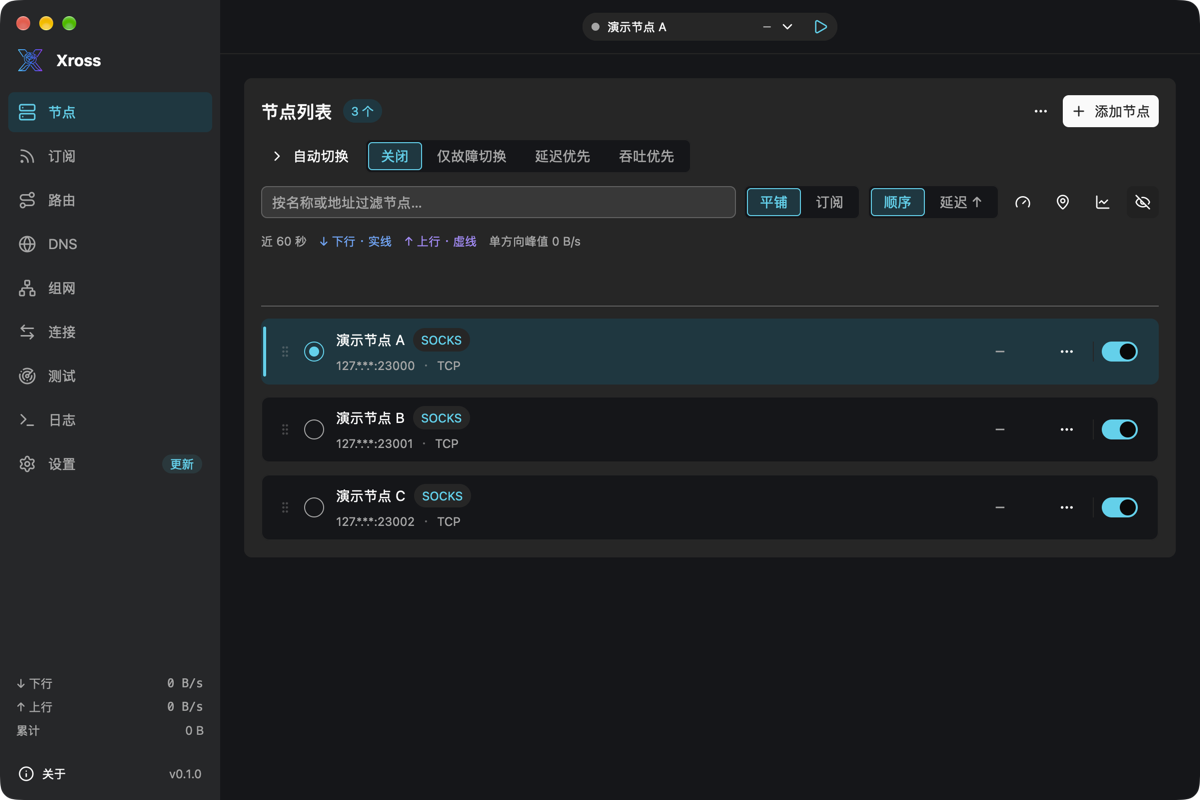
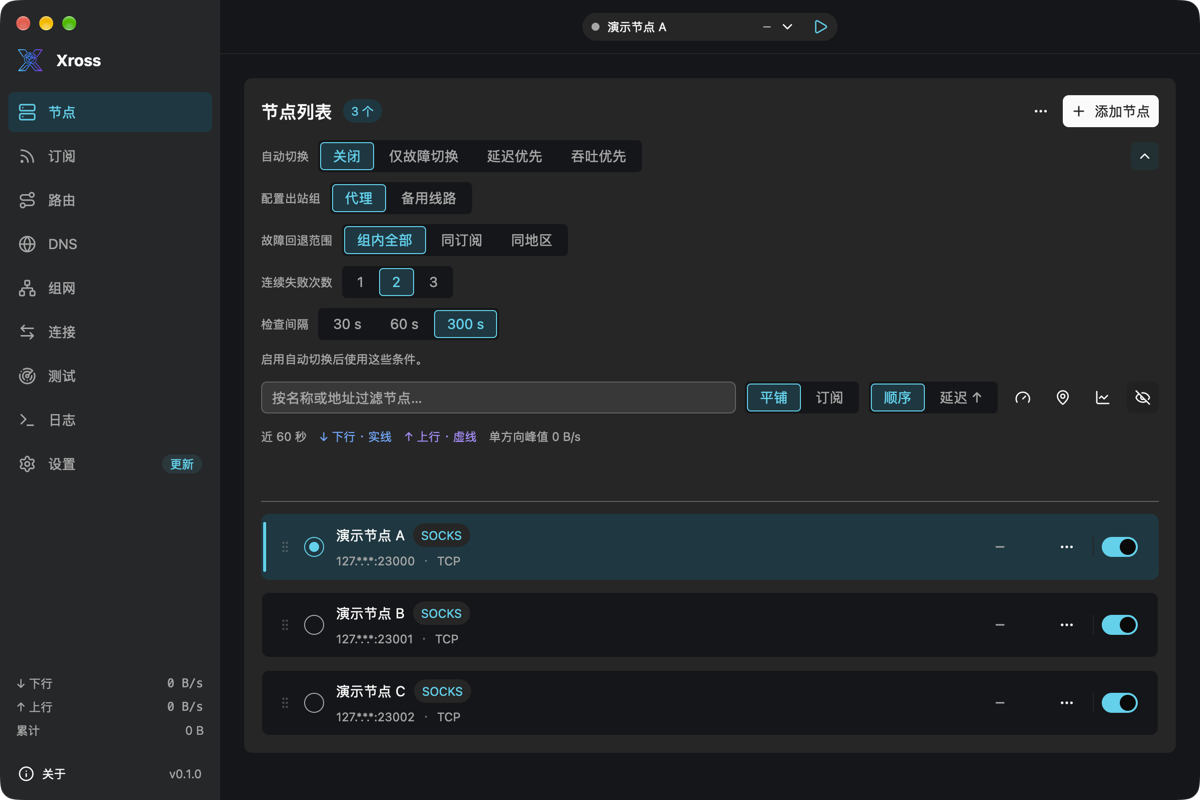
fix(nodes): move switch disclosure to row end and segment group choice

diff --git a/crates/xross-app/src/ui/menus.rs b/crates/xross-app/src/ui/menus.rs
@@ -13,7 +13,6 @@ pub(super) enum MenuTarget {
     RoutingFiles,
     NodeSelector,
     DefaultOutbound,
-    SwitchPolicyGroups,
     FrontProxy,
     Node(String),
     Nodes,
@@ -31,7 +30,6 @@ pub(super) enum Command {
     ExportRoute(ExportScope),
     SelectNode(String, String),
     SetDefaultOutbound(String),
-    EditSwitchGroup(String),
     SetFrontProxy(Option<String>),
     EditNode(String),
     TestNode(String),
@@ -213,31 +211,23 @@ impl AppView {
                     );
                 }
             }
-            MenuTarget::DefaultOutbound | MenuTarget::SwitchPolicyGroups => {
+            MenuTarget::DefaultOutbound => {
                 let model = &self.snapshot.model;
-                let routing = matches!(target, MenuTarget::DefaultOutbound);
-                let current = if routing {
-                    model.default_group_id()
-                } else {
-                    self.expanded_switch_group.clone()
-                };
+                let current = model.default_group_id();
                 for group in &model.groups {
-                    let (enabled, command) = if routing {
-                        let usable = group.members.iter().any(|id| {
-                            model
-                                .node(id)
-                                .is_some_and(|node| node.usable_with(self.snapshot.settings.core))
-                        });
-                        (
+                    let usable = group.members.iter().any(|id| {
+                        model
+                            .node(id)
+                            .is_some_and(|node| node.usable_with(self.snapshot.settings.core))
+                    });
+                    menu = menu.item(
+                        item(
+                            &view,
+                            self.outbound_group_label(group),
                             group.enabled && usable && !busy("core"),
                             Command::SetDefaultOutbound(group.id.clone()),
                         )
-                    } else {
-                        (true, Command::EditSwitchGroup(group.id.clone()))
-                    };
-                    menu = menu.item(
-                        item(&view, self.outbound_group_label(group), enabled, command)
-                            .checked(current.as_ref() == Some(&group.id)),
+                        .checked(current.as_ref() == Some(&group.id)),
                     );
                 }
             }
@@ -661,7 +651,6 @@ impl AppView {
             Command::CopyNode(_)
                 | Command::QrNode(_)
                 | Command::BatchNodes
-                | Command::EditSwitchGroup(_)
                 | Command::ClearLogs
                 | Command::ClearRecording
         ) && busy("core")
@@ -743,12 +732,6 @@ impl AppView {
                     self.service.toast(ToastLevel::Error, err.to_string());
                 } else {
                     self.expanded_switch_group = None;
-                }
-            }
-            Command::EditSwitchGroup(id) => {
-                if self.expanded_switch_group.is_some() && self.snapshot.model.group(&id).is_some()
-                {
-                    self.expanded_switch_group = Some(id);
                 }
             }
             Command::SetFrontProxy(id) => {

diff --git a/crates/xross-app/src/ui/nodes/switching.rs b/crates/xross-app/src/ui/nodes/switching.rs
@@ -42,15 +42,16 @@ impl AppView {
         } else {
             self.tr("展开高级设置", "Expand advanced settings")
         };
-        let heading = Button::new("switch-advanced")
+        let expand_button = Button::new("switch-advanced")
             .compact()
             .ghost()
-            .label(self.tr("自动切换", "Auto switch"))
             .icon(if expanded {
-                IconName::ChevronDown
+                IconName::ChevronUp
             } else {
-                IconName::ChevronRight
+                IconName::ChevronDown
             })
+            .size(px(crate::ui::theme::ICON_BUTTON_SIZE))
+            .flex_shrink_0()
             .accessibility_label(format!(
                 "{} · {disclosure}",
                 self.tr("自动切换", "Auto switch")
@@ -98,28 +99,39 @@ impl AppView {
         let controls = div().flex().flex_col().gap_2().child(
             div()
                 .flex()
-                .flex_wrap()
+                .w_full()
                 .items_center()
                 .gap_2()
-                .child(heading)
-                .child(modes),
+                .child(
+                    row(self.tr("自动切换", "Auto switch"))
+                        .flex_1()
+                        .min_w(px(0.))
+                        .child(modes),
+                )
+                .child(expand_button),
         );
         if !expanded {
             return controls;
         }
-        let controls = controls.when(self.snapshot.model.groups.len() > 1, |d| {
-            d.child(
-                row(self.tr("配置出站组", "Configure group")).child(
-                    Button::new("switch-policy-group")
-                        .compact()
-                        .label(self.outbound_group_label(group))
-                        .icon(IconName::ChevronDown)
-                        .dropdown_menu(menus::builder(
-                            cx.entity().downgrade(),
-                            MenuTarget::SwitchPolicyGroups,
-                        )),
-                ),
+        let groups = &self.snapshot.model.groups;
+        let controls = controls.when(groups.len() > 1, |d| {
+            let ids: Vec<_> = groups.iter().map(|g| g.id.clone()).collect();
+            let choices = ChoiceGroup::new(
+                "switch-policy-group",
+                groups
+                    .iter()
+                    .map(|g| self.outbound_group_label(g))
+                    .collect(),
+                groups.iter().position(|g| g.id == group.id),
             )
+            .on_change(cx.listener(move |this, index: &usize, _, cx| {
+                let id = &ids[*index];
+                if this.expanded_switch_group.is_some() && this.snapshot.model.group(id).is_some() {
+                    this.expanded_switch_group = Some(id.clone());
+                    cx.notify();
+                }
+            }));
+            d.child(row(self.tr("配置出站组", "Configure group")).child(choices))
         });
         if mode == SwitchMode::GroupDefault {
             return controls.child(note(self.tr(

diff --git a/README.md b/README.md
@@ -28,7 +28,7 @@ Xross 是跨平台的 Xray / sing-box 桌面客户端，同时内置异地组网
 | 延迟优先 | 比较通过各节点测得的 HTTP 延迟，改善达到组内设定的容差（默认 50 ms）时切换。 |
 | 吞吐优先 | 实测下载速度提升至少 10% 时切换。每轮每个节点最多下载 1 MiB，计入订阅流量。 |
 
-点击「自动切换」标题旁的箭头展开高级设置。可将故障回退限定在同订阅或同地区，并设置检查间隔（默认 5 分钟）和连续失败次数（默认 2 次）。同地区按服务器 IP 的国家或地区匹配。找不到符合条件的健康节点时保留当前节点，下一轮再试。延迟和吞吐择优比较组内节点，回退范围仅在故障时生效。
+点击「自动切换」行最右侧的箭头展开高级设置。可将故障回退限定在同订阅或同地区，并设置检查间隔（默认 5 分钟）和连续失败次数（默认 2 次）。同地区按服务器 IP 的国家或地区匹配。找不到符合条件的健康节点时保留当前节点，下一轮再试。延迟和吞吐择优比较组内节点，回退范围仅在故障时生效。
 
 节点页默认配置路由使用的默认代理出站。需要为特定分流规则调整策略时，在高级设置中选择对应出站组。收起后返回默认组。有多个出站组时，在「路由 → 默认代理出站」可更改未指定出站组的代理规则使用的组。
 

diff --git a/docs/DESIGN.md b/docs/DESIGN.md
@@ -487,7 +487,7 @@ new Intl.RelativeTimeFormat(locale, { numeric: 'auto' }).format(-3, 'minute') //
 |---|---|---|
 | K01 | 不适用 | 原条目忽略 |
 | K02 | 已修复 | DNS 根据解析策略识别预设；总开关和 Hosts 不影响识别，自定义配置单独显示 |
-| K03 | 已修复 | 节点列表用一行「自动切换」标题和四项分段选择器。点击标题展开高级设置，视图和排序独立成行 |
+| K03 | 已修复 | 节点列表用一行显示「自动切换」标签、四项分段选择器和行尾展开按钮。高级设置中的出站组使用分段选择器，视图和排序独立成行 |
 | K04 | 已修复 | 代理蓝绿浅底、直连中性灰、阻止危险浅底 |
 | K05 | 已修复 | Switch 关闭态统一中性灰轨道 |
 | K06 | 部分完成 | 统一纵向菜单、右键入口与确认弹窗；DNS 引用检查覆盖 UI 与服务层；本轮不做六秒撤销 |
